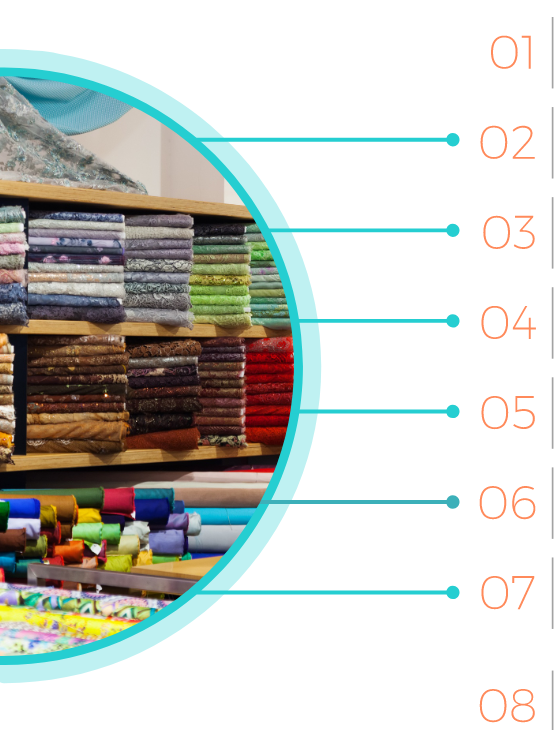
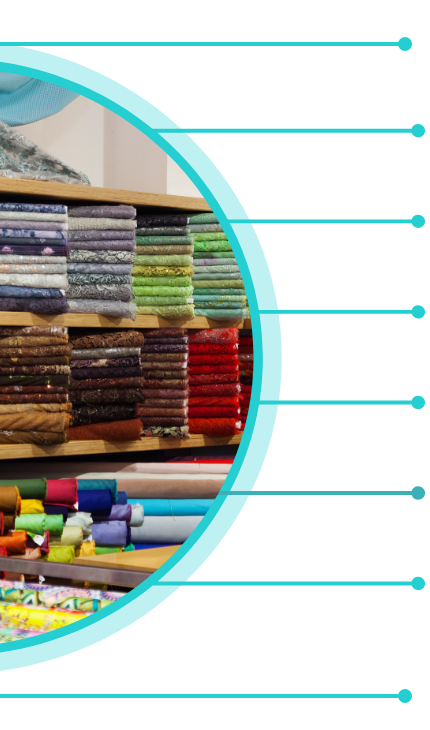
Avance 3
Se realizan ajustes al componente

diff --git a/src/views/Tema5.vue b/src/views/Tema5.vue
@@ -69,46 +69,48 @@
               p.mb-4 En el área de trazo y corte se utiliza una serie de máquinas y herramientas propias para ese fin, unas con más nivel de tecnología que otras, entre ellas, unas diseñadas para grandes volúmenes y otras para pequeños lotes de producción.
               p.mb-4 Las más frecuentemente utilizadas son las siguientes:
 
-              .tarjeta-avatar-b.mb-4
-                img.iconV(src='@/assets/curso/tema5/img08.png' alt='AvatarTop')
-                .tarjeta.color-acento-contenido-punteado.p-0
-                  .row.p-0
-                    .col-2
-                    .col-lg-10.mb-4
-                      .tarjeta.color-acento-contenido-punteado.p-0
-                        .tarjeta.color-acento-contenido.p-3
-                          .h4.text-white Cortadoras de cuchilla vertical
-                  .row.justify-content-center
-                    .col-lg-10.mb-4
-                      p.mb-4 Máquina eléctrica, provista de una cuchilla ubicada de manera vertical, que al activarla realiza un movimiento perpendicular y que le permite al empujarla avanzar, cortando las telas extendidas y permitiendo que las piezas queden sueltas para clasificarlas, y luego pasar a ensamblarlas, esta viene provista de unas cintas afiladoras que son intercambiables y que sirven al activarlas, para mantener la capacidad de corte en óptimas condiciones.
-                      p.mb-4 Este tipo de máquina es empujada u operada manualmente por el encargado de esta función, se mueve la cortadora dentro del tendido, dejando las piezas separadas; el cambio de las cuchillas lo realiza el mismo operario, las cuchillas de estas máquinas vienen en longitudes de 4”, 6”, 8”, 10” (pulgadas). El material sobrante de tela que no corresponde a piezas que se van a confeccionar se llama retal, y hace parte del desperdicio.
+              .row.justify-content-center
+                .col-lg-11
+                  .tarjeta-avatar-b.mb-4
+                    img.iconV(src='@/assets/curso/tema5/img08.png' alt='AvatarTop')
+                    .tarjeta.color-acento-contenido-punteado.p-0
+                      .row.p-0
+                        .col-2
+                        .col-lg-10.mb-4
+                          .tarjeta.color-acento-contenido-punteado.p-0
+                            .tarjeta.color-acento-contenido.p-3
+                              .h4.text-white Cortadoras de cuchilla vertical
+                      .row.justify-content-center
+                        .col-lg-10.mb-4
+                          p.mb-4 Máquina eléctrica, provista de una cuchilla ubicada de manera vertical, que al activarla realiza un movimiento perpendicular y que le permite al empujarla avanzar, cortando las telas extendidas y permitiendo que las piezas queden sueltas para clasificarlas, y luego pasar a ensamblarlas, esta viene provista de unas cintas afiladoras que son intercambiables y que sirven al activarlas, para mantener la capacidad de corte en óptimas condiciones.
+                          p.mb-4 Este tipo de máquina es empujada u operada manualmente por el encargado de esta función, se mueve la cortadora dentro del tendido, dejando las piezas separadas; el cambio de las cuchillas lo realiza el mismo operario, las cuchillas de estas máquinas vienen en longitudes de 4”, 6”, 8”, 10” (pulgadas). El material sobrante de tela que no corresponde a piezas que se van a confeccionar se llama retal, y hace parte del desperdicio.
 
-              .tarjeta-avatar-b.mb-5
-                img.iconV(src='@/assets/curso/tema5/img09.png' alt='AvatarTop')
-                .tarjeta.color-white-punteado.p-0
-                  .row.p-0
-                    .col-2
-                    .col-lg-10.mb-4
-                      .tarjeta.color-white-punteado.p-0
-                        .tarjeta.color-secundario.p-3
-                          h4.text-white Cortadora manual profesional
-                  .row.justify-content-center
-                    .col-lg-10.mb-4
-                      p La fuente de su energía son baterías, se acciona de manera manual, no tiene la misma potencia que la eléctrica, sirve para cortar lotes de pocas unidades
+                  .tarjeta-avatar-b.mb-5
+                    img.iconV(src='@/assets/curso/tema5/img09.png' alt='AvatarTop')
+                    .tarjeta.color-white-punteado.p-0
+                      .row.p-0
+                        .col-2
+                        .col-lg-10.mb-4
+                          .tarjeta.color-white-punteado.p-0
+                            .tarjeta.color-secundario.p-3
+                              h4.text-white Cortadora manual profesional
+                      .row.justify-content-center
+                        .col-lg-10.mb-4
+                          p La fuente de su energía son baterías, se acciona de manera manual, no tiene la misma potencia que la eléctrica, sirve para cortar lotes de pocas unidades
 
-              .tarjeta-avatar-b.mb-5
-                img.iconV(src='@/assets/curso/tema5/img10.png' alt='AvatarTop')
-                .tarjeta.color-acento-botones-punteado.p-0
-                  .row.p-0
-                    .col-2
-                    .col-lg-10.mb-4
-                      .tarjeta.color-acento-botones-punteado.p-0
-                        .tarjeta.color-acento-botones.p-3
-                          h4.text-white Corte sin fin
-                  .row.justify-content-center
-                    .col-lg-10.mb-4
-                      p En el caso de utilizar este tipo de máquina hay que tener en cuenta que es una máquina fija, inmóvil, estática y que el que se mueve es el tejido, se utiliza para cortes rectos, al empujar el material se le va dando la forma deseada, siguiendo las líneas del trazo.
-                      p El tiempo que se emplea es mínimo, se pueden cortar grandes bloques de material, y hay seguridad en la relación útil de corte y materiales.
+                  .tarjeta-avatar-b.mb-5
+                    img.iconV(src='@/assets/curso/tema5/img10.png' alt='AvatarTop')
+                    .tarjeta.color-acento-botones-punteado.p-0
+                      .row.p-0
+                        .col-2
+                        .col-lg-10.mb-4
+                          .tarjeta.color-acento-botones-punteado.p-0
+                            .tarjeta.color-acento-botones.p-3
+                              h4.text-white Corte sin fin
+                      .row.justify-content-center
+                        .col-lg-10.mb-4
+                          p En el caso de utilizar este tipo de máquina hay que tener en cuenta que es una máquina fija, inmóvil, estática y que el que se mueve es el tejido, se utiliza para cortes rectos, al empujar el material se le va dando la forma deseada, siguiendo las líneas del trazo.
+                          p El tiempo que se emplea es mínimo, se pueden cortar grandes bloques de material, y hay seguridad en la relación útil de corte y materiales.
 
       separador
       #t_5_1.titulo-segundo
@@ -264,23 +266,42 @@
         p.mb-4 A continuación, se definen algunas recomendaciones para garantizar la calidad en las secciones que realizan actividades de corte:
 
         .row
-          .col-lg-6.mb-4.mb-lg-0
+          .col-lg-5.mb-4.mb-lg-0
             img(src='@/assets/curso/tema5/img12.png')
-          .col-lg-6.mb-4.mb-lg-0
-            br
-            p.mb-3 Al recibir las telas asegurarse de tener claro:  el nombre de la tela, la cantidad, para qué lotes está destinada, dónde y cómo se va a almacenar, etc.
-            br
-            br
-            p.mb-4 Si las telas necesitan reposo previo, ejecutarlo.
-            br
-            p.mb-4 Al extender identificar las posibles irregularidades de la tela, proceder a marcarlas para luego reponer la pieza o cortar y sacar ese daño.
-            br
-            p.mb-4 Cuando se está cortando poner mucho cuidado con los “vencimientos de las telas”, con la posición y profundidad de los piquetes.
-            p.mb-2 Al momento de tiquetear debe tener en cuenta no colocar el tiquete donde van a ir costuras o piezas como tapas, bolsillos traseros, charreteras o pretinas, se recomienda etiquetar por el derecho de la tela para que cuando se vaya construyendo la prenda no quede escondida.
-            p.mb-2 Al amarrar las piezas se recomienda juntar las piezas iguales, por ejemplo, todas las aletillas juntas, todas las relojeras juntas, todos los bolsillos juntos, etc., ya que la primera operación que se hace en las plantas es precisamente juntar las piezas iguales para cargarlas a las máquinas con lo que se gana tiempo.
-            p.mb-4 Al ingresar los lotes a las plantas hacer entrega de toda la información y elementos que se tengan, adicional hacer una remisión en la que se especifique: corte, referencia, cantidades por talla, etc.
-            p.mb-4 Los pasadores deben venir cortados a la medida que el cliente los necesita, no de otra, ya que esto lleva a afinarlos, en lo posible enviar un retazo para posibles reposiciones.
-
+          .col-lg-7.mb-4.mb-lg-0
+            .row
+              .col-2.mb-2
+                img(src='@/assets/curso/tema5/img13.svg')
+              .col-10
+                p.mb-3 Al recibir las telas asegurarse de tener claro:  el nombre de la tela, la cantidad, para qué lotes está destinada, dónde y cómo se va a almacenar, etc.
+              .col-2.mb-2
+                img(src='@/assets/curso/tema5/img14.svg')
+              .col-10 
+                p.mb-4 Si las telas necesitan reposo previo, ejecutarlo.
+              .col-2.mb-2
+                img(src='@/assets/curso/tema5/img15.svg')
+              .col-10
+                p.mb-4 Al extender identificar las posibles irregularidades de la tela, proceder a marcarlas para luego reponer la pieza o cortar y sacar ese daño.
+              .col-2.mb-2
+                img(src='@/assets/curso/tema5/img16.svg')
+              .col-10
+                p.mb-4 Cuando se está cortando poner mucho cuidado con los “vencimientos de las telas”, con la posición y profundidad de los piquetes.
+              .col-2.mb-2
+                img(src='@/assets/curso/tema5/img17.svg')
+              .col-10
+                p.mb-2 Al momento de tiquetear debe tener en cuenta no colocar el tiquete donde van a ir costuras o piezas como tapas, bolsillos traseros, charreteras o pretinas, se recomienda etiquetar por el derecho de la tela para que cuando se vaya construyendo la prenda no quede escondida.
+              .col-2.mb-2
+                img(src='@/assets/curso/tema5/img18.svg')
+              .col-10
+                p.mb-2 Al amarrar las piezas se recomienda juntar las piezas iguales, por ejemplo, todas las aletillas juntas, todas las relojeras juntas, todos los bolsillos juntos, etc., ya que la primera operación que se hace en las plantas es precisamente juntar las piezas iguales para cargarlas a las máquinas con lo que se gana tiempo.
+              .col-2.mb-2
+                img(src='@/assets/curso/tema5/img19.svg')
+              .col-10
+                p.mb-4 Al ingresar los lotes a las plantas hacer entrega de toda la información y elementos que se tengan, adicional hacer una remisión en la que se especifique: corte, referencia, cantidades por talla, etc.
+              .col-2.mb-2
+                img(src='@/assets/curso/tema5/img20.svg')
+              .col-10
+                p.mb-4 Los pasadores deben venir cortados a la medida que el cliente los necesita, no de otra, ya que esto lleva a afinarlos, en lo posible enviar un retazo para posibles reposiciones.
 </template>
 
 <script>

diff --git a/src/views/Tema2.vue b/src/views/Tema2.vue
@@ -93,7 +93,7 @@
             .col-md-7.mb-4.mb-md-0
               p.mb-4 Para conocer cómo realizar un proceso de trazo y corte consulte el siguiente documento:
             .col-md-4.mb-4.mb-md-0
-              a.anexo.mb-4(:href="obtenerLink('/downloads/Anexo1_PISANTEX_TRAZO_Y_CORTE.pdf')" target="_blank")
+              a.anexo.mb-4(:href="obtenerLink('/downloads/Anexo1_pisantex_trazo_y_corte.pdf')" target="_blank")
                 .anexo__icono
                   img(src="@/assets/template/icono-pdf.svg")
                 .anexo__texto

diff --git a/src/config/global.js b/src/config/global.js
@@ -350,7 +350,7 @@ export default {
     {
       texto: 'PIZANTEX. (2014). Procesos de trazo y corte. PIZANTEX.',
       tipo: 'PDF ',
-      link: '/downloads/Anexo1_PISANTEX_TRAZO_Y_CORTE.pdf',
+      link: '/downloads/Anexo1_pisantex_trazo_y_corte.pdf',
     },
     {
       texto:

diff --git a/src/views/Tema3.vue b/src/views/Tema3.vue
@@ -191,7 +191,7 @@
             | Cálculo de capacidad instalada diaria
           
           .row.mb-4
-            .col-md-9.mb-4.mb-md-0
+            .col-md-12.mb-4.mb-md-0
               .tabla-b.color-acento-contenido.mb-5
                 table
                   thead

diff --git a/src/styles/_custom.sass b/src/styles/_custom.sass
@@ -80,8 +80,9 @@
   background-color: $color-acento-contenido !important
 
 .iconV
-  width: 100px !important
-  height: 120px !important
+  min-width: 15% !important
+  max-width: 15% !important
+  position: relative
   align-self: center !important
 
 .iconH
